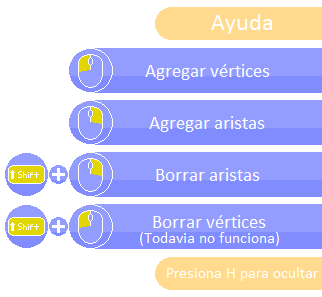
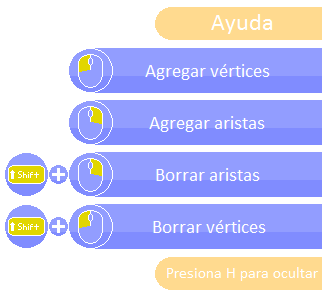
Borrar vertices

Changed region(s): [[0.4348, 0.7273, 0.8696, 0.8182]]

diff --git a/readme.md b/readme.md
@@ -6,6 +6,14 @@
 - Notas: En algunos navegadores no funciona el borrar el nombre del vertice debido a que no permiten detectar cuando se presiona
 la tecla "BACKSPACE", borrar el nombre del vertice funciona correctamente si ejecutas el archivo de manera local con Processing 3.
 
+## 20/04/19
+
+**Añadidos:**
+- Se agrego la funcionalidad de poder borrar vertices al mantener presionado SHIFT y dar click izquierdo sobre un vertice.
+
+**Correciones:**
+- Se corrigio que al momento de nombrar un vertice y apretar la tecla 'h' se podia interactuar con el menu de ayuda.
+
 ## 19/04/19
 ### SE REDISEÑO LA INTERFAZ GRAFICA.
 
@@ -14,7 +22,7 @@ la tecla "BACKSPACE", borrar el nombre del vertice funciona correctamente si eje
 - Se agrego dos imagenes correspondientes al menu de ayuda.
 - Se agrego una imagen de background.
 
-**Sreenshots**
+**Screenshots**
 
 ![](img/screenshots/Screenshot3.png)
 ![](img/screenshots/Screenshot4.png)
@@ -23,7 +31,7 @@ la tecla "BACKSPACE", borrar el nombre del vertice funciona correctamente si eje
 ## 18/04/19
 
 **Añadidos:**
-- Se agrego la funcionalidad de poder borrar aristas.
+- Se agrego la funcionalidad de poder borrar aristas al mantener presionado SHIFT y dar click derecho sobre dos vertices.
 
 ## 17/04/19
 
